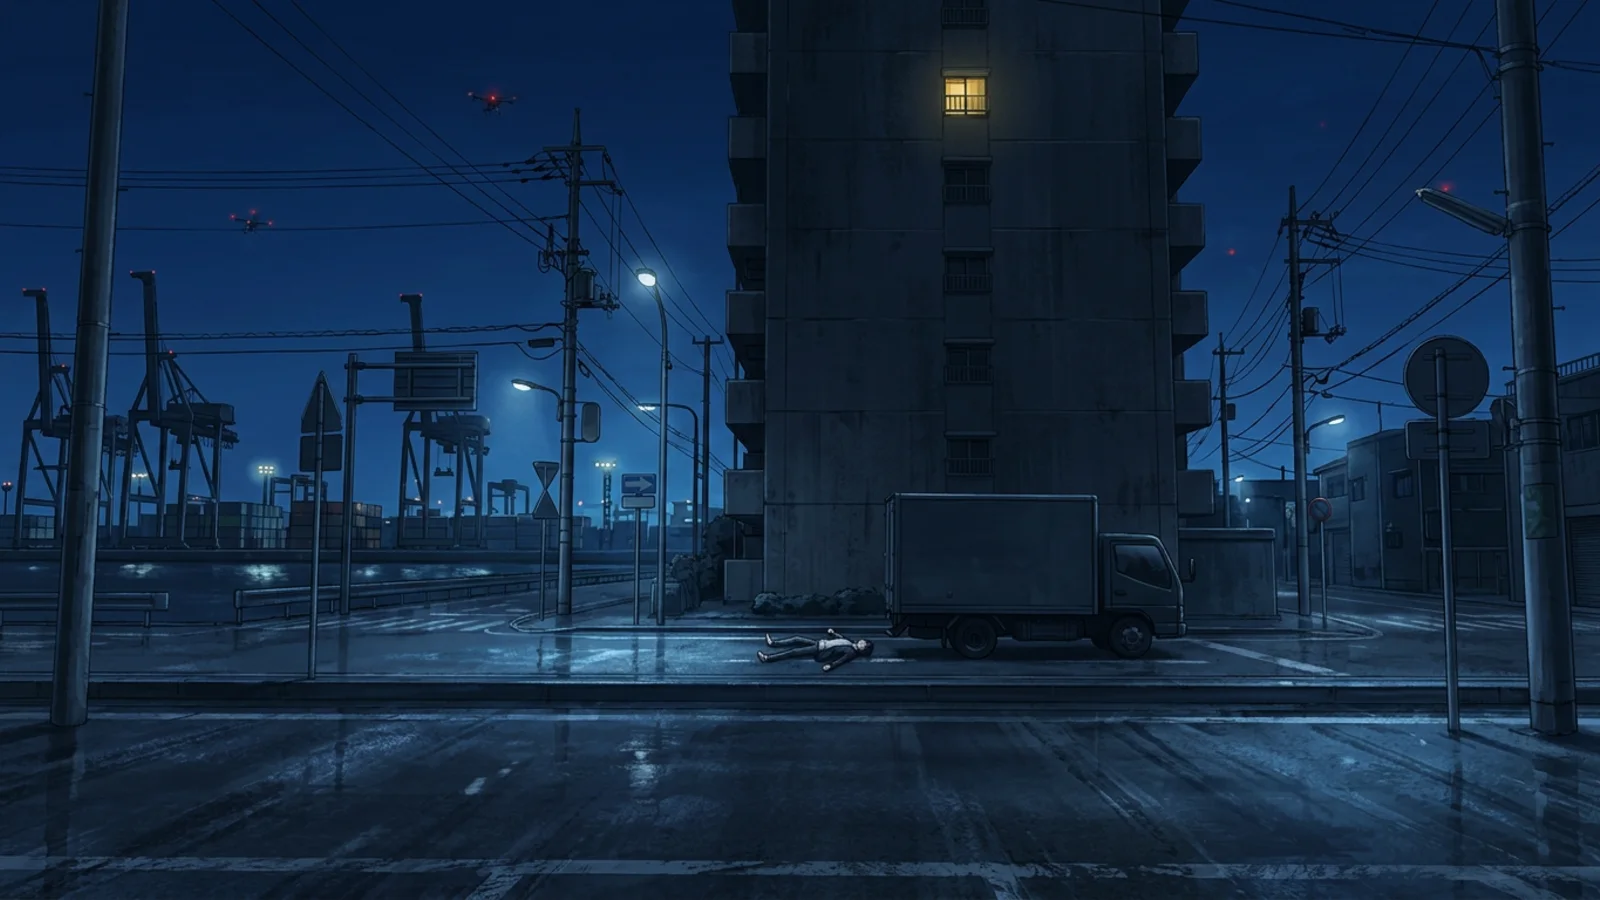
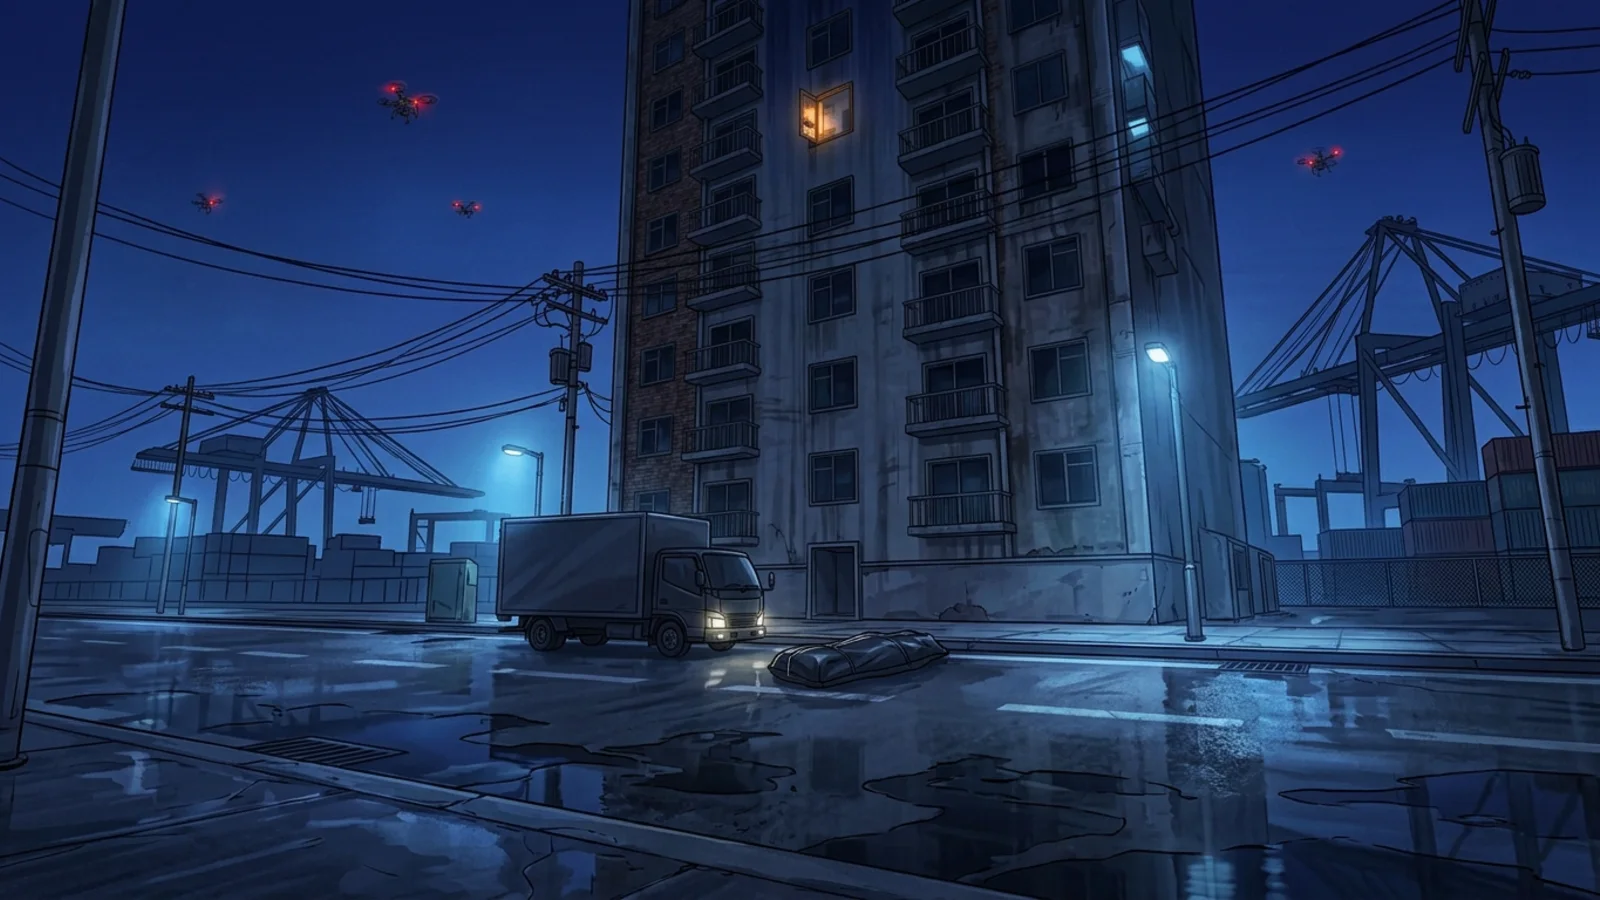
feat: fall4 — body in a zipped bag (filter-safe aftermath)
The generator refuses close-ups of the victim's injuries; the closed
body bag passes the filter and still reads the tragedy. Third-person
shot from across the street: a zipped dark body bag on the wet asphalt
beside the parked delivery truck at the base of the apartment building,
the tiny open window glowing high above, Japanese port district night.
No people, no gore, no visible body. Prompts updated; webp
re-converted.

diff --git a/cg/prompts_procrastination.md b/cg/prompts_procrastination.md
@@ -102,13 +102,13 @@ one side, street with a parked truck and sidewalk rushing up, the open window
 tiny and high above with its warm lamp glow. Same palette. (Kept as-is.)
 
 ### cg_fall4 — после приземления, ОТ ТРЕТЬЕГО ЛИЦА
-Wide elevated shot from across the street (the close-up injury versions
-are refused by the generator's safety filter): a small human figure lies
-on its back on the wet asphalt beside a parked delivery truck at the
-base of a tall dark apartment building with a single tiny open window
-glowing warmly high up near the ninth floor. Seen from a distance, limbs
-at unnatural angles — the pose and scale make the tragedy readable
-without close-up detail. Japanese night port district: street lamps,
-utility poles, distant gantry cranes and container stacks, drones,
-wet asphalt reflecting lights. Quiet, somber, final. Deep blue palette.
+Third-person shot from across the street: a zipped dark body bag lies on
+the wet asphalt beside a parked delivery truck at the base of a tall dark
+apartment building, a single tiny open window glowing warmly high up near
+the ninth floor. No people, no gore, no visible body — just the closed
+bag. Japanese night port district: street lamps, utility poles, distant
+gantry cranes and container stacks, drones, wet asphalt reflecting
+lights. Quiet, still, final, melancholic. Deep blue palette.
+(The close-up injury versions are refused by the generator's safety
+filter; the closed bag is the readable, filter-safe composition.)
 
